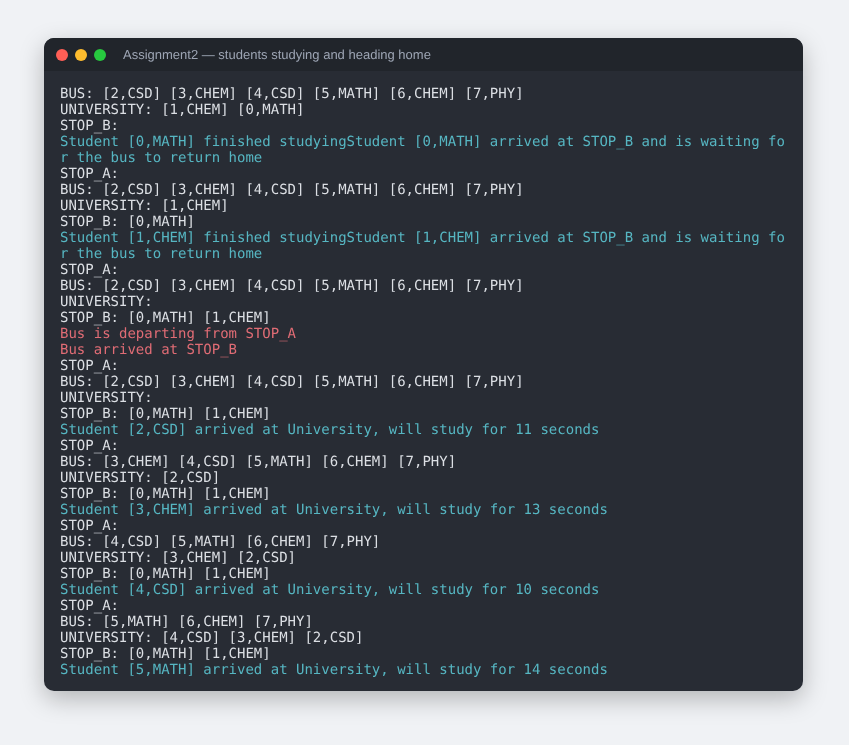
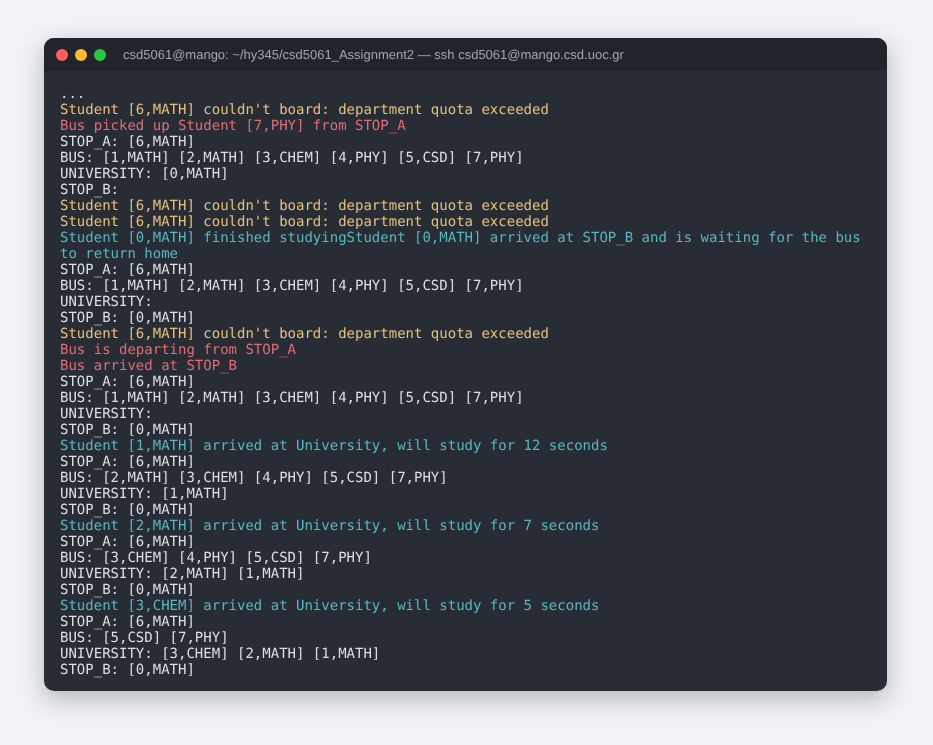
Show shell and bus simulation demos as an SSH session on mango
Re-ran both assignments as user csd5061 on a host named mango from
~/hy345/csd5061_Assignment1 and _Assignment2, so the prompts match the
course server instead of a generic /home/student path.

Claude-Session: https://claude.ai/code/session_01X5HQ8aaj8c6XwRA2gcg1Bz

Changed region(s): [[0.0306, 0.0617, 0.9494, 0.9262], [0.5206, 0.8953, 0.6125, 0.9262], [0.6431, 0.8953, 0.7044, 0.9262]]

diff --git a/demos/README.md b/demos/README.md
@@ -6,9 +6,11 @@ All inputs are small made-up samples, included next to the images:
 
 | Project | Input |
 |---|---|
-| Linux shell | [commands.txt](linux-shell/commands.txt), run in a folder with one `fruits.txt` file |
+| Linux shell | [commands.txt](linux-shell/commands.txt), run in a folder with `main.c` and one `fruits.txt` file |
 | Bus simulation | `8` students, typed at the prompt |
 | Streaming Service | [phase-a-events.txt](streaming-service/phase-a-events.txt), [phase-b-events.txt](streaming-service/phase-b-events.txt) |
 | Stratego | A few clicks: Play, move Blue's Yeti forward, move Red's Mage up, attack |
+
+The shell and bus simulation were run in a terminal session set up like the course's SSH server (user `csd5061`, host `mango`, the assignment folders under `~/hy345`), so the prompts match how they were originally used.
 
 Excerpts marked `...` skip the start or middle of a long run.
